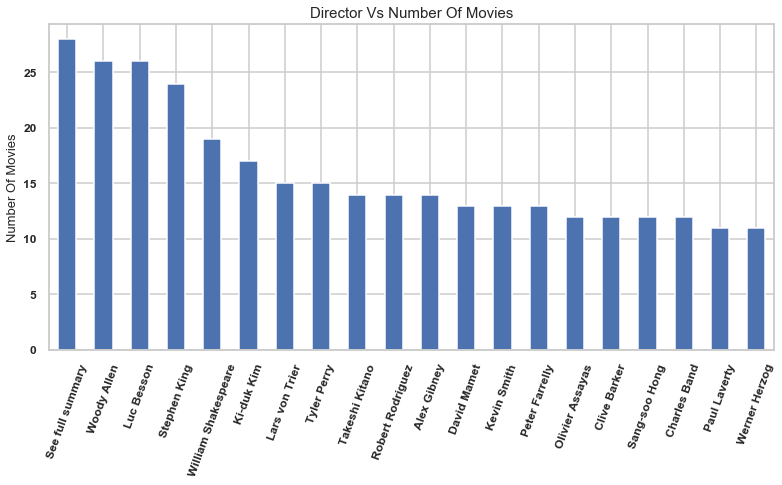
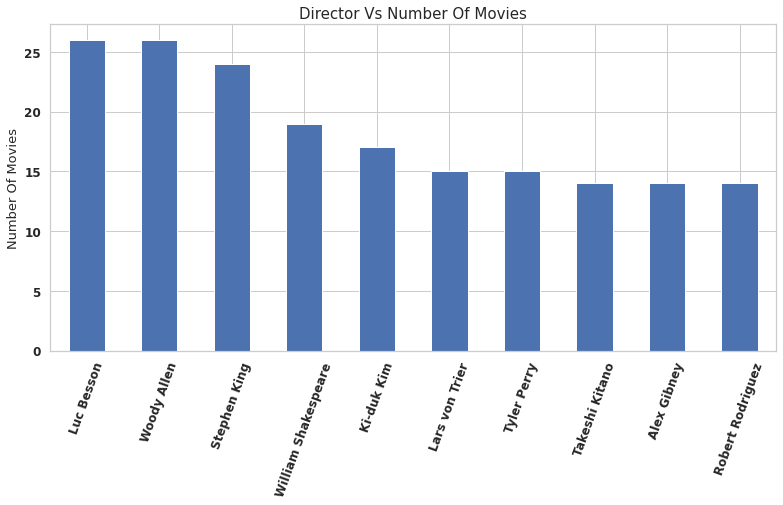
Added plot descriptions for the EDA

diff --git a/resources/pages/meet_the_team.html b/resources/pages/meet_the_team.html
@@ -9,7 +9,6 @@
       <div class="container">
         <h2>Zintle Faltein-Maqubela</h2>
         <p class="title">App development</p>
-        <p>Songbird</p>
 	  <a href="https://github.com/zintlefaltein" target="_blank"><i class="fa fa-github"></i></a>
 	  <a href="https://www.linkedin.com/in/zintlefaltein" target="_blank"><i class="fa fa-linkedin"></i></a>
         <p><button class="button"></button></p>
@@ -23,7 +22,6 @@
       <div class="container">
         <h2>Monica <br> Farrell</h2>
         <p class="title">Data engineering</p>
-        <p>Cute description</p>
 	  <a href="https://github.com/monicafar147" target="_blank"><i class="fa fa-github"></i></a>
 	  <a href="https://www.linkedin.com/in/monica-farrell-25b742154" target="_blank"><i class="fa fa-linkedin"></i></a>
         <p><button class="button"></button></p>
@@ -37,7 +35,6 @@
       <div class="container">
         <h2>Jonathan Dankers</h2>
         <p class="title">Solution engineering</p>
-        <p>Cute description</p>
 	  <a href="https://github.com/jonnybegreat" target="_blank"><i class="fa fa-github"></i></a>
 	  <a href="https://www.linkedin.com/in/jonathan-dankers" target="_blank"><i class="fa fa-linkedin"></i></a>
         <p><button class="button"></button></p>
@@ -51,7 +48,6 @@
       <div class="container">
         <h2>Juandre Liebenberg</h2>
         <p class="title">Solution engineering</p>
-        <p>Cute description</p>
 	  <a href="https://github.com/juandreliebenberg" target="_blank"><i class="fa fa-github"></i></a>
 	  <a href="https://www.linkedin.com/in/juandre-liebenberg-90bb521a7" target="_blank"><i class="fa fa-linkedin"></i></a>
         <p><button class="button"></button></p>
@@ -65,7 +61,6 @@
       <div class="container">
         <h2>Luvuyo Nkosana</h2>
         <p class="title">Data analysis</p>
-        <p>Chess king</p>
 	  <a href="https://github.com/luvuyonkosana" target="_blank"><i class="fa fa-github"></i></a>
 	  <a href="https://www.linkedin.com/in/luvuyo-nkosana" target="_blank"><i class="fa fa-linkedin"></i></a>
         <p><button class="button"></button></p>
@@ -79,7 +74,6 @@
       <div class="container">
         <h2>Anda <br> Mchako</h2>
         <p class="title">Data analysis</p>
-        <p>Cute description</p>
 	  <a href="https://github.com/andamchako" target="_blank"><i class="fa fa-github"></i></a>
 	  <a href="https://www.linkedin.com/in/mchakoanda" target="_blank"><i class="fa fa-linkedin"></i></a>
         <p><button class="button"></button></p>

diff --git a/edsa_recommender.py b/edsa_recommender.py
@@ -119,25 +119,35 @@ def main():
         st.title("Data analysis") 
         if st.checkbox("Ratings insights"):
             st.subheader("These plots give insights about the ratings given for the movies")
-            st.write("The most common rating is 4 with over 2.5 million ratings")
-            st.image("resources/imgs/plots/number_of_ratings.png", width=500)
-            st.image("resources/imgs/plots/ratings_distribution.png", width=500)
-            st.write("These are the highest rated movies. We have selected the top 20")
-            st.image("resources/imgs/plots/highest_rated_movies.png", width=500)
+            st.write("This is a count of how many movies have been given a certain rating with 5 being \
+                    the highest rating that a movie can get. Most of the movies have been given a \
+                    rating of 4 which means that the majority of people enjoy most of the movies in the database")
+            #st.image("resources/imgs/plots/number_of_ratings.png", width=650)
+            st.image("resources/imgs/plots/ratings_distribution.png", width=650)
+            st.write("These are the 20 most rated movies. In the top 10 we only have movies from \
+                    the 90s, with 1994 taking the top 3 spots.")
+            st.image("resources/imgs/plots/highest_rated_movies.png", width=650)
         if st.checkbox("Movie insights"):
             st.subheader("A number of factors influence movie choices and below we take a look at \
                         some of those factors such as popular themes, actors, directors and era")
-            st.write("The longest movie is 246 minutes long")
-            st.image("resources/imgs/plots/movie_runtime.png", width=500)
-            st.write("Genres with the highest number of movies were drama, comedy, action and thriller")
-            st.image("resources/imgs/plots/number_of_movies_by_genre2.png", width=500)
-            st.write("The majority of movies in our database were released in the 1900s")
-            st.image("resources/imgs/plots/movies_per_era.png", width=500)
-            st.write("These are the most popular themes.")
-            st.image("resources/imgs/plots/wordcloud2.png", width=500)
-            st.image("resources/imgs/plots/top_20_directors.png", width=500)
-            #st.image("resources/imgs/plots/director_movies.png", width=500)
-            st.image("resources/imgs/plots/frequent_actors.png", width=500)
+            st.write("The majority of movies have a runtime distributed aound 100 minutes")
+            st.image("resources/imgs/plots/runtime.png", width=650)
+            st.write("Drama holds the most number of movies in the database followed by comedy and action.")
+            st.image("resources/imgs/plots/number_of_movies_by_genre2.png", width=600)
+            st.write("The majority of the movies in this database were released \
+                in the 1900s and only a few movies are released in the 1800s and 2000s.")
+            st.image("resources/imgs/plots/movies_per_era.png", width=650)
+            st.write("These are the most popular themes. The keywords are a reflection of the top 3 genres \
+                    in the database (drama, comedy and action). If you watch movies in these genres it is \
+                    likely that the movie will have these keywords and that is why these movies have high age \
+                    restictions. The keywords also show what themes people enjoy watching")
+            st.image("resources/imgs/plots/wordcloud2.png", width=650)
+            st.image("resources/imgs/plots/director_movies.png", width=650)
+            st.write("These are the 20 most frequent actors in the database. \
+                    Samuel L.Jackson takes the crown with over 80 movies and Steven Busceni coming second \
+                    with around 68 movies. In the 3rd place is Keith David with about 61 movies. \
+                    The remaining 17 actors have almost the same number of movies.")
+            st.image("resources/imgs/plots/frequent_actors.png", width=650)
 
 
     if page_selection == "Pitch":
@@ -145,7 +155,7 @@ def main():
         st.markdown(slides, unsafe_allow_html=True)
 
     if page_selection == "Meet the team":
-        st.title("Meet the team")
+        st.title("Meet the data science team")
         st.markdown(team, unsafe_allow_html=True)
         local_css('resources/pages/html_style.css')
 

diff --git a/resources/models/train_colbased.py b/resources/models/train_colbased.py
@@ -16,7 +16,7 @@ import surprise
 import pickle
 
 # Importing datasets
-ratings = pd.read_csv('ratings.csv')
+ratings = pd.read_csv("C:/Users/zintl/Dropbox/Explore2020_resources/Kaggle - Recommender system/ratings.csv")
 ratings.drop('timestamp',axis=1,inplace=True)
 
 def svd_pp(save_path):
